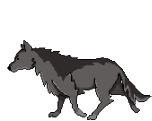
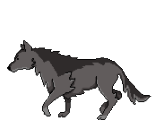
Исправила анимацию походки

diff --git a/main.py b/main.py
@@ -17,8 +17,7 @@ walk_right = [
     pygame.image.load('images/w_right/r4.png'),
     pygame.image.load('images/w_right/r5.png'),
     pygame.image.load('images/w_right/r6.png'),
-    pygame.image.load('images/w_right/r7.png'),
-    pygame.image.load('images/w_right/r8.png')
+    pygame.image.load('images/w_right/r7.png')
 ]
 walk_left = [
     pygame.image.load('images/w_left/l1.png'),
@@ -26,8 +25,7 @@ walk_left = [
     pygame.image.load('images/w_left/l3.png'),
     pygame.image.load('images/w_left/l5.png'),
     pygame.image.load('images/w_left/l6.png'),
-    pygame.image.load('images/w_left/l7.png'),
-    pygame.image.load('images/w_left/l8.png')
+    pygame.image.load('images/w_left/l7.png')
 ]
 
 wolf_anim_count = 0
@@ -40,7 +38,7 @@ while running:
     screen.blit(bg, (bg_x + 900, 0))
     screen.blit(walk_right[wolf_anim_count], (300, 325))
 
-    if wolf_anim_count == 7:
+    if wolf_anim_count == 6:
         wolf_anim_count = 0
     else:
         wolf_anim_count += 1
